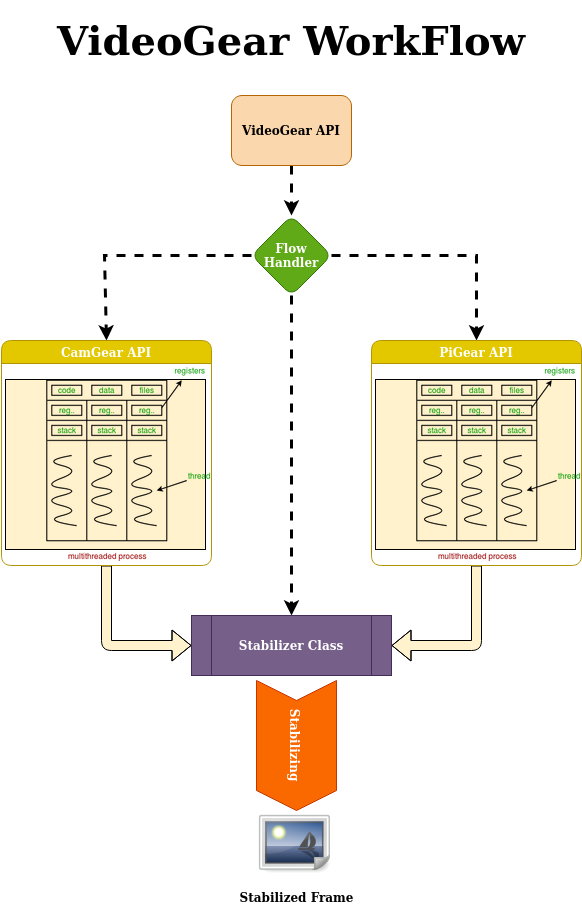
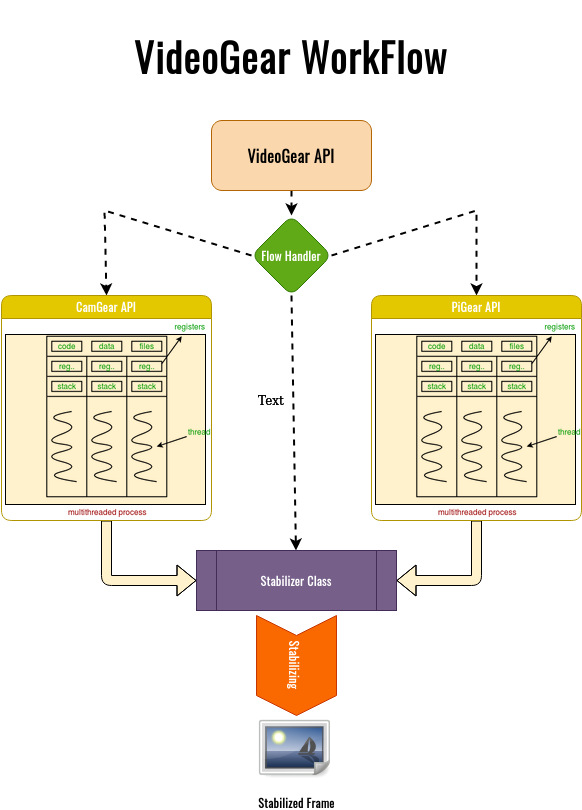
VidGear Docs: Updates
- Fixed missing CSS definition.
- Added new images for WriteGear API's primary modes.
- Change primary and accent colors.
- Updated Changelog.

diff --git a/docs/assets/stylesheets/custom.css b/docs/assets/stylesheets/custom.css
@@ -3,8 +3,9 @@ To view a copy of this license, visit http://creativecommons.org/licenses/by-nc-
 Commons, PO Box 1866, Mountain View, CA 94042, USA. */
 
 code {
-    word-break: keep-all !important;
-  }
+	word-break: keep-all !important;
+}
 
 td {
-      vertical-align: middle !important;
+	vertical-align: middle !important;
+}

diff --git a/docs/gears/camgear/overview.md b/docs/gears/camgear/overview.md
@@ -24,7 +24,7 @@ limitations under the License.
 ## Overview
 
 <p align="center">
-  <img src="../../../assets/images/camgear.png" alt="CamGear Functional Block Diagram" title="Designed by Abhishek Thakur(@abhiTronix), under CC-BY-NC-SA 4.0 License"/>
+  <img src="../../../assets/images/camgear.png" alt="CamGear Functional Block Diagram" title="Designed by Abhishek Thakur(@abhiTronix), under CC-BY-NC-SA 4.0 License" width="70%"/>
   <br>
   <sub><i>Functional block diagram depicts CamGear API's generalized workflow</i></sub>
 </p>

diff --git a/docs/gears/writegear/non_compression/overview.md b/docs/gears/writegear/non_compression/overview.md
@@ -21,7 +21,7 @@ limitations under the License.
 # WriteGear API: Non-Compression Mode
 
 <p align="center">
-  <img src="../../../../assets/images/writegear_cm.png" alt="Non-Compression Mode" title="Designed by Abhishek Thakur(@abhiTronix), under CC-BY-NC-SA 4.0 License"/>
+  <img src="../../../../assets/images/writegear_ncm.png" alt="Non-Compression Mode" title="Designed by Abhishek Thakur(@abhiTronix), under CC-BY-NC-SA 4.0 License"/>
   <br>
   <sub><i>WriteGear API's Non-Compression Mode generalized workflow</i></sub>
 </p>

diff --git a/docs/changelog.md b/docs/changelog.md
@@ -20,7 +20,7 @@ limitations under the License.
 
 # Release Notes
 
-## v0.1.8 (2020-06-11)
+## v0.1.8 (2020-06-12)
 
 ### New Features
 
@@ -130,6 +130,7 @@ limitations under the License.
 - [X] Enabled missing support for frame compression in its primary receive mode.
 - [X] Fixed several bugs from CI Bidirectional Mode tests.
 - [X] Removed or Grouped redundant code for increasing codecov.
+- [X] Fixed Mkdocs only accepting Relative paths.
 - [X] Fixed round off error in FPS.
 - [X] Many small typos and bugs fixes.
 

diff --git a/docs/gears/videogear/overview.md b/docs/gears/videogear/overview.md
@@ -24,7 +24,7 @@ limitations under the License.
 ## Overview
 
 <p align="center">
-  <img src="../../../assets/images/videogear_workflow.png" alt="VideoGear Flow Diagram"  width="80%" title="Designed by Abhishek Thakur(@abhiTronix), under CC-BY-NC-SA 4.0 License"/>
+  <img src="../../../assets/images/videogear_workflow.png" alt="VideoGear Flow Diagram"  width="85%" title="Designed by Abhishek Thakur(@abhiTronix), under CC-BY-NC-SA 4.0 License"/>
   <br>
   <sub><i>VideoGear API's generalized workflow</i></sub>
 </p>

diff --git a/README.md b/README.md
@@ -19,7 +19,7 @@ limitations under the License.
 -->
 
 <h1 align="center">
-  <img src="docs/assets/images/vidgear.png" alt="VidGear" title="Logo designed by Abhishek Thakur(@abhiTronix), under CC-BY-NC-SA 4.0 License"/>
+  <img src="docs/assets/images/vidgear.png" alt="VidGear" title="Logo designed by Abhishek Thakur(@abhiTronix), under CC-BY-NC-SA 4.0 License" width="90%"/>
 </h1>
 <h2 align="center">
   <img src="docs/assets/images/tagline.svg" alt="VidGear tagline" width="40%"/>
